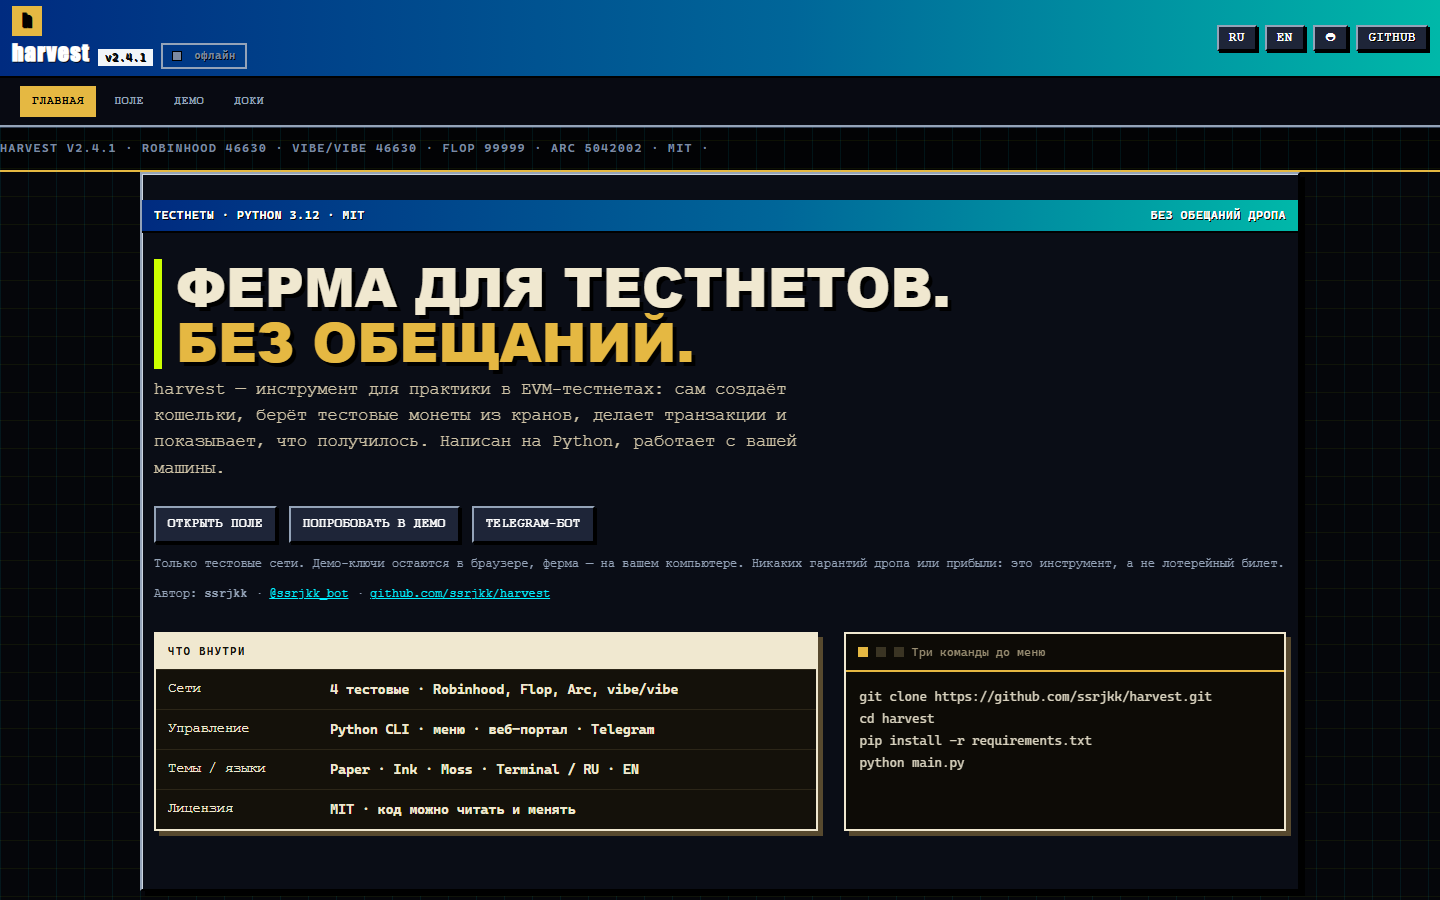
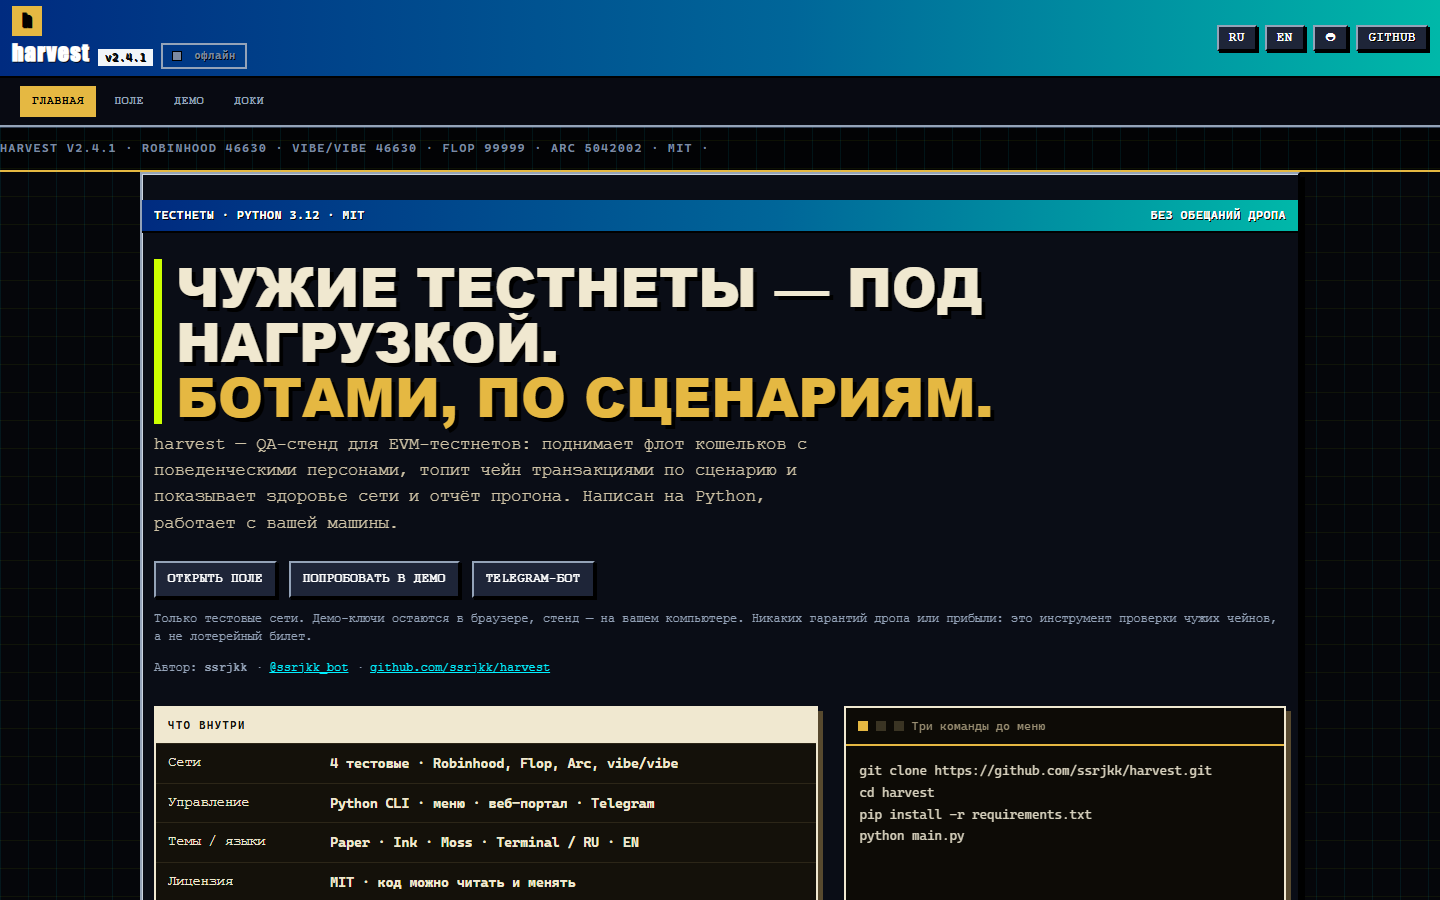
Мастер: кнопка 20 кругов для Soak, свежие скриншоты витрины

Changed region(s): [[0.0938, 0.28, 0.9062, 1.0], [0.8125, 0.6222, 0.875, 0.6533], [0.7188, 0.6222, 0.7812, 0.6533]]

diff --git a/docs/demo.html b/docs/demo.html
@@ -90,7 +90,7 @@ try{if(!matchMedia("(prefers-reduced-motion: reduce)").matches){document.documen
           <input type="range" id="wW" min="1" max="200" value="10" step="1" aria-valuetext="10 wallets">
           <p class="note" data-i18n="w_wallets_s">Кошельки создаются сами. Для первой пробы хватит 5–10.</p></div>
         <div class="field"><label data-i18n="w_cycles">Сколько кругов работы?</label>
-          <div class="seg" id="wC"><button data-c="2" class="on" type="button" data-i18n="w_c2">2 — проба</button><button data-c="5" type="button">5</button><button data-c="0" type="button" data-i18n="w_c0">∞ — без остановки</button></div>
+          <div class="seg" id="wC"><button data-c="2" class="on" type="button" data-i18n="w_c2">2 — проба</button><button data-c="5" type="button">5</button><button data-c="20" type="button" data-i18n="w_c20">20 — вдолгую</button><button data-c="0" type="button" data-i18n="w_c0">∞ — без остановки</button></div>
           <p class="note" data-i18n="w_cycles_s">Один круг — это проход по всем кошелькам: кран, потом транзакции.</p></div>
         <label class="check"><input type="checkbox" id="wF" checked> <span data-i18n="w_faucet">Пополнять баланс из крана</span></label>
         <p class="note" data-i18n="w_faucet_s">Кран — бесплатная раздача тестовых монет. Выключите, только если монеты уже есть.</p>

diff --git a/docs/assets/common.js b/docs/assets/common.js
@@ -119,7 +119,7 @@ w_s1:"Network",w_s2:"Scale",w_s3:"Launch",
 w_q1:"What are we farming?",w_q1s:"Farming here means practice transactions on a test network. The money isn't real, and it costs nothing.",
 wd_v:"Tokens and launches. Most people start here.",w_rec:"calm start",wd_r:"The main test network: transfers and swaps.",wd_a:"Token launches and trading. Busier, more log events.",wd_f:"Compute and staking. A stub network for experiments.",wd_s:"Transfers only: the quietest mode.",
 w_q2:"What scale?",w_wallets:"Wallets",w_wallets_s:"Wallets are created automatically. 5–10 is enough for a first try.",
-w_cycles:"How many rounds?",w_c2:"2 — trial",w_c0:"∞ — nonstop",w_cycles_s:"One round walks all wallets: faucet first, then transactions.",
+w_cycles:"How many rounds?",w_c2:"2 — trial",w_c20:"20 — long run",w_c0:"∞ — nonstop",w_cycles_s:"One round walks all wallets: faucet first, then transactions.",
 w_faucet:"Top up balance from the faucet",w_faucet_s:"A faucet is a free giveaway of test coins. Turn off only if you already have coins.",
 sc_h:"Check scenario",sc_smoke:"Smoke — is the chain alive?",sc_load:"Load — does it hold up?",sc_soak:"Soak — stable long-term?",sc_chaos:"Chaos — empty tank",sc_s:"Smoke: 5 wallets, 2 rounds. Load: 200×5. Soak: 50×20. Chaos: 100×5 with no faucet — the negative path.",
 w_q3:"All set. One command left.",w_sum_net:"Network",w_sum_w:"Wallets",w_sum_c:"Rounds",w_sum_f:"Faucet",
